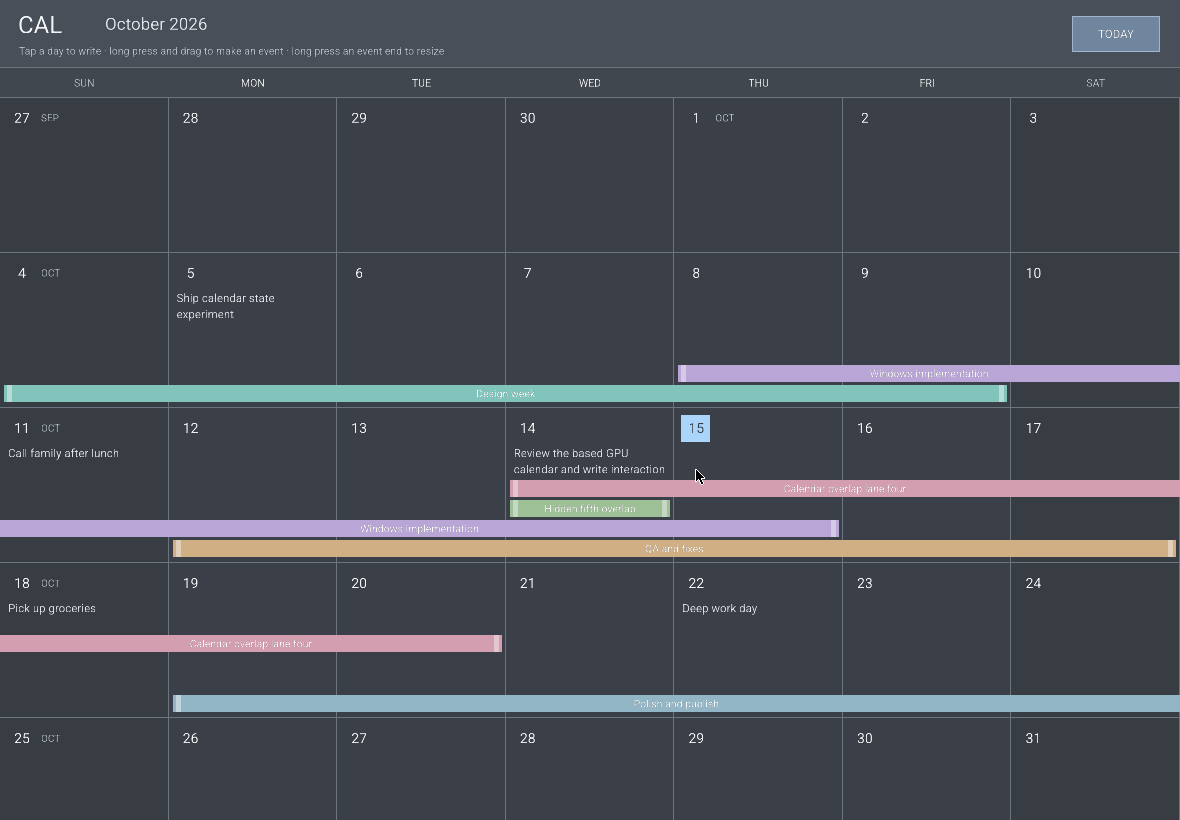
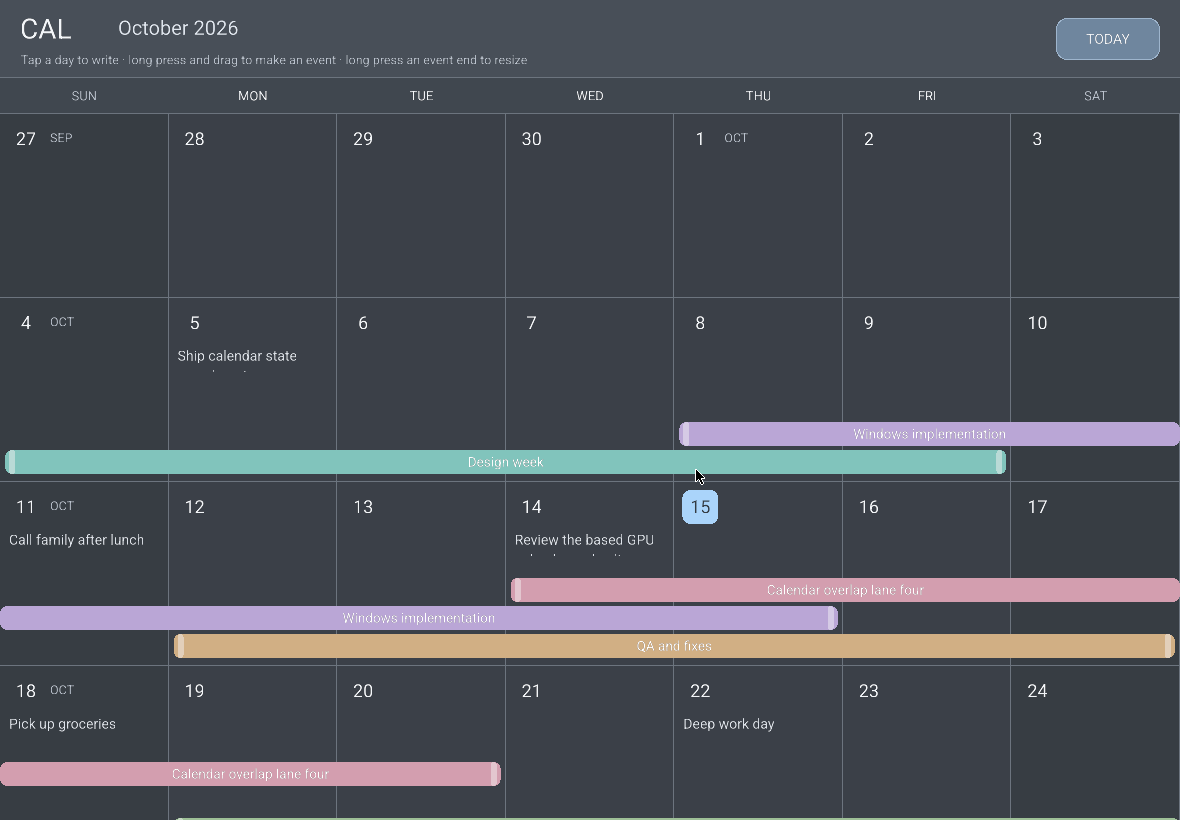
prepare 0.1.1 release

diff --git a/README.md b/README.md
@@ -10,13 +10,14 @@ A Windows-first calendar experiment built from the low-level capabilities in [`b
 
 - One Sunday–Saturday week per row.
 - Every day has an editable description.
-- Events span inclusive date ranges and render as strips along the bottom of each week.
+- Events span inclusive date ranges and render as rounded strips along the bottom of each week.
 - Overlapping events receive stable, bottom-up lanes. The first four lanes render.
+- Type, spacing, hit areas, and editor controls scale with the Windows display scale.
 - Click a day or event strip to open its description editor.
 - Long-press a day, then drag and release to create an event without opening the editor.
 - Long-press either end of an event, then drag to resize it.
 - Drag an endpoint past the other endpoint and release to delete the event.
-- Use the mouse wheel or trackpad to move through continuous weeks. **Today** returns to the current date.
+- Use the mouse wheel or trackpad to move through continuous weeks. **Today** eases back to the current date with one-pole motion; manual input stops the motion immediately.
 
 The editor is a custom `based` widget. It stores text in a `ropey::Rope` and uses Sanscale's own layout for wrapping, hit testing, selection, caret motion, and rendering. `Ctrl+Enter` saves and `Escape` cancels.
 
@@ -63,8 +64,8 @@ This repository pins a private `based` revision, so the build requires repositor
 The release script writes:
 
 ```text
-dist/cal-based-0.1.0-windows-x64.exe
-dist/cal-based-0.1.0-windows-x64.exe.sha256
+dist/cal-based-0.1.1-windows-x64.exe
+dist/cal-based-0.1.1-windows-x64.exe.sha256
 ```
 
 Rust checks use the managed Cargo binary, Nextest for behavioral tests, and `cargo xwin` for the Windows target. Clippy is not part of this project workflow.

diff --git a/docs/acceptance.md b/docs/acceptance.md
@@ -17,6 +17,8 @@ Verified:
 
 - launch, first frame, resizing, and continuous week rendering;
 - Sunday-first columns and day descriptions;
+- larger calendar and editor type at 100% scale and simulated 200% Windows display scale;
+- rounded event strips, endpoint handles, Today button, editor panel, and editor controls;
 - deterministic bottom-up event lanes and four-lane rendering;
 - day editor rendering, keyboard replacement, save, and JSON persistence;
 - event editor rendering, keyboard replacement, save, and JSON persistence;
@@ -24,6 +26,8 @@ Verified:
 - release creates the inclusive event range without opening the editor;
 - long-press endpoint drag updates the live range preview;
 - crossing the fixed endpoint deletes the event on release;
+- Today navigation produces distinct in-flight frames, settles on the current week, and stops on manual wheel input;
+- scaled long-press event creation still persists the selected inclusive date range;
 - the final persisted file remains readable after each operation.
 
 The Wine host emitted software-display EGL warnings because the headless X server had no accelerated DRI device. Rendering and interaction still completed correctly.
